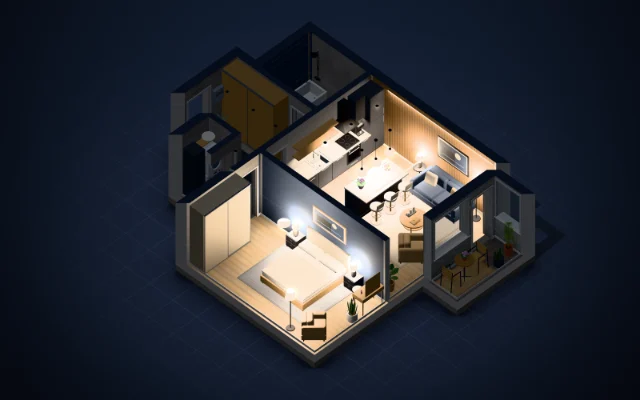
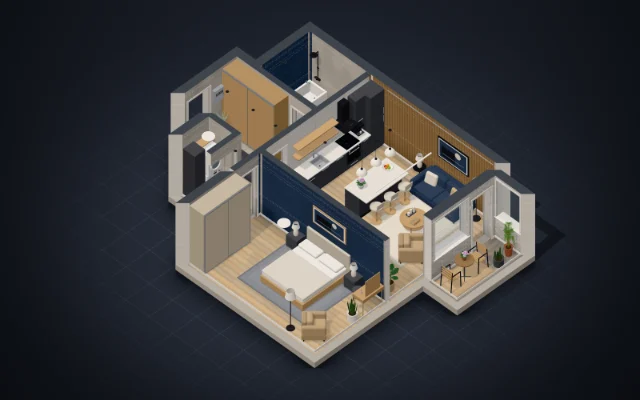
A mix of light: homes under 60 m² are shown by day with the lamps off, the larger ones in the evening; the examples' renders follow (D-116)

Changed region(s): [[0.25, 0.06, 0.8438, 0.93]]

diff --git a/editor/src/editor/app.ts b/editor/src/editor/app.ts
@@ -45,7 +45,8 @@ import {createCoach} from './coach.ts';
 import {createViewDemo} from './view-demo.ts';
 import {createLook} from './look.ts';
 import {SHOWCASE} from './showcase.ts';
-import {eveningRooms} from '../core/evening.ts';
+import {eveningRooms, shownByDay} from '../core/evening.ts';
+import {homeFacts} from './gallery.ts';
 import {NOT_ADMIN_CSS} from '../look/roles.ts';
 import {liveScene} from '../core/devices.ts';
 import {planWalls, planFurniture, planSpots} from '../core/plan-scene.ts';
@@ -2661,16 +2662,18 @@ export function createApp({haLights, ha, photos}: AppOptions): Editor {
     if (!SHOWCASE) saveMode(dayMode);
     showNight(true);
   };
-  // The evening a home is shown in (D-116): night for now (not kept), and only the lamps of a couple of rooms on. In the demo a
-  // lamp's state is the plan's (ha.ts), so the home panel and the 3D see the same.
-  ed.showEvening = () => {
-    const lit = eveningRooms(ed.plan.rooms, ed.plan.lights);
+  // The light a home is shown in (D-116): a small home by day with every lamp off, a larger one in the evening — night (not kept)
+  // and only the lamps of a couple of rooms on. In the demo a lamp's state is the plan's (ha.ts), so the home panel and the 3D see
+  // the same.
+  ed.showcaseLight = () => {
+    const byDay = shownByDay(homeFacts(ed.plan.rooms).area);
+    const lit = byDay ? new Set<string>() : eveningRooms(ed.plan.rooms, ed.plan.lights);
     for (const lamp of ed.plan.lights) {
       const on = !!lamp.room && lit.has(lamp.room);
       lamp.on = on;
       ed.view.setLightOn(lamp.id, on);
     }
-    dayMode = 'night';
+    dayMode = byDay ? 'day' : 'night';
     showNight(true);
     if (look) lookUI.refresh();
   };

diff --git a/editor/tools/render-examples.ts b/editor/tools/render-examples.ts
@@ -3,8 +3,8 @@
 //   node tools/render-examples.ts [--only loft,studio]
 //   node tools/render-examples.ts --gallery <dir>   (a published gallery's homes: <dir>/index.json, each <id>.webp rewritten)
 // It builds the editor with the typical demo, opens each example in headless Chrome, shows the home alone in 3D from its home
-// view (the same camera and framing as the AI build's editor-3d.png, so the AI-built homes' renders match these) in the evening
-// a home is shown in (D-116: night, a couple of rooms lit, core/evening.ts) and takes a screenshot, made small in the page
+// view (the same camera and framing as the AI build's editor-3d.png, so the AI-built homes' renders match these) in the light
+// a home is shown in (D-116, core/evening.ts: a small home by day, the others at night with a couple of rooms lit) and takes a screenshot, made small in the page
 // itself (no image library needed). A gallery's homes open from a local server that gives the folder at /gallery/, as the
 // editor's own server does. Chrome: CHROME_PATH, or the usual macOS place.
 import fs from 'node:fs';
@@ -217,7 +217,7 @@ async function renderHome(devTools: DevTools, address: string): Promise<Buffer> 
         const ed = window.editor?.ed;
         if (!ed?.setBare) return false;
         ed.setBare('3d');
-        ed.showEvening();
+        ed.showcaseLight();
         ed.view.home();
         return true;
       })()`,

diff --git a/editor/src/core/evening.ts b/editor/src/core/evening.ts
@@ -3,6 +3,8 @@
 // the main room people spend the evening in (the largest living room, kitchen or dining room) and the largest bedroom; where
 // one of them is missing, the next largest room lived in, so two rooms are lit where two have lamps. Every other lamp is off.
 // An AI-built home has only the lamps its video showed, often none in the living room: the rule picks among those it has.
+// Not every home is shown so (the owner: a mix reads better than a page of night scenes): a small home is shown by day with
+// every lamp off (shownByDay), the larger ones in the evening.
 import {area} from './geometry.ts';
 import {roomKind} from './overview.ts';
 import type {Room, RoomKind} from './types.ts';
@@ -17,6 +19,11 @@ const roomArea = (room: Room): number => Math.abs(area(room.polygon));
 
 // How many rooms are lit.
 const LIT_ROOMS = 2;
+// A home smaller than this (m² indoors, as its card says) is shown by day: a studio, a one- or a small two-room flat.
+export const DAYLIGHT_MAX_AREA = 60;
+
+/** A home of this indoor area (m²) is shown by day, every lamp off; a larger one in the evening. */
+export const shownByDay = (indoorArea: number): boolean => indoorArea < DAYLIGHT_MAX_AREA;
 
 /** The largest of the rooms whose kind is one of these, not taken already; none: null. */
 function largestOf(rooms: Room[], kinds: readonly RoomKind[], taken: Set<string>): Room | null {

diff --git a/editor/src/editor/flows.ts b/editor/src/editor/flows.ts
@@ -303,9 +303,9 @@ export function createFlows(
       ed.update();
     } // the example in the address is the plan already open (a reload): it stays as it is
     $('start').hidden = true;
-    // the showcase is Preview only, in the evening (D-116)
+    // the showcase is Preview only, each home in its light (D-116)
     setPage(SHOWCASE ? 'preview' : r.page);
-    if (SHOWCASE) ed.showEvening();
+    if (SHOWCASE) ed.showcaseLight();
     coverDown();
   }
   // an address from outside: once its page is open, the address is written as it is now (a wrong one is cleaned, a refused mode corrected)
@@ -590,8 +590,8 @@ export function createFlows(
       ed.mode.refresh?.();
       ed.fit();
       setPage(page);
-      // the showcase presents every home in the evening (D-116)
-      if (SHOWCASE) ed.showEvening();
+      // the showcase presents every home in its light (D-116)
+      if (SHOWCASE) ed.showcaseLight();
       // a home is most often opened “just to look” — say right away that your own plan is safe
       // shown in “Preview” too: the home opens in it
       if (kept && !SHOWCASE)

diff --git a/editor/src/editor/showcase.ts b/editor/src/editor/showcase.ts
@@ -1,5 +1,5 @@
-// The showcase (D-116): the editor opened with ?show, as another site embeds a home to present it (sync.md). Only Preview, in
-// the evening light (core/evening.ts): no editor tools and modes, no file menu, and nothing in the home panel that changes the
+// The showcase (D-116): the editor opened with ?show, as another site embeds a home to present it (sync.md). Only Preview, each
+// home in its light (core/evening.ts: by day or in the evening): no editor tools and modes, no file menu, and nothing in the home panel that changes the
 // plan (the settings a dashboard user who is not an administrator does not get either, look/roles.ts). The viewer still turns
 // the home, opens rooms, switches lights and scenes and steps day / night: what a home shows, not how it is set up.
 

diff --git a/editor/src/core/evening.test.ts b/editor/src/core/evening.test.ts
@@ -43,3 +43,11 @@ test('no lamps, no rooms lit; a bathroom or a hallway alone is never chosen', ()
   assert.equal(eveningRooms(rooms, []).size, 0);
   assert.equal(eveningRooms(rooms, [{room: 'hall'}, {room: 'bath'}]).size, 0);
 });
+
+test('a small home is shown by day, a larger one in the evening', async () => {
+  const {shownByDay, DAYLIGHT_MAX_AREA} = await import('./evening.ts');
+  assert.equal(shownByDay(30), true, 'a studio');
+  assert.equal(shownByDay(DAYLIGHT_MAX_AREA - 1), true);
+  assert.equal(shownByDay(DAYLIGHT_MAX_AREA), false);
+  assert.equal(shownByDay(117), false, 'the loft');
+});

diff --git a/editor/src/editor/editor-types.ts b/editor/src/editor/editor-types.ts
@@ -547,8 +547,8 @@ export interface Editor {
   dayMode(): DayNightMode;
   /** Steps auto → day → night. */
   toggleNight(): void;
-  /** The evening a home is shown in (D-116): night, and only a couple of rooms lit (core/evening.ts). */
-  showEvening(): void;
+  /** The light a home is shown in (D-116): a small one by day, lamps off; a larger one at night with a couple of rooms lit. */
+  showcaseLight(): void;
   reducedMotion(): boolean;
   /** Preview (D-047): 3D full screen with the home panel. */
   look(): boolean;

diff --git a/docs/decisions.md b/docs/decisions.md
@@ -23,7 +23,7 @@ New decisions are appended at the top of their section, old ones are not rewritt
 - **The examples as a list:** the build writes `dist/showcase/examples.json` and each example's render `<id>-<content hash>.webp` beside the page (a new render is a new address: Cloudflare keeps pictures for hours; the gallery's pictures are named so too): the name and the note in every language the editor has, the area and the rooms as the gallery's cards count them, the kind, and the address that opens the home. Only the typical homes and the designer interiors (demo/homes.ts), never the build's own demo home, which may be the owner's. The names and groups moved from `flows.ts` to `example-info.ts`, which has no DOM, so the build can read them. The server serves the folder at `/showcase/`.
 - **In Home Assistant** the panel has no examples (D-062), so the start screen says "See example homes", a link that opens the gallery online (twin.sync.md) in a new tab; in the companion app that is the phone's browser.
 - **The showcase (`?show`, the owner after seeing it embedded):** the company's site only presents how a home can look, so nothing there sets anything up. With `?show` the editor is Preview only (`showcase.ts`): no file menu, modes, tools or way back to the start screen; the home panel hides what changes the plan, the same buttons a dashboard user who is not an administrator does not get (`look/roles.ts`); no "your plan is saved" banner; an address with no home opens the gallery. The viewer still turns the home, opens rooms, switches lights and scenes and steps day / night (not kept).
-- **The evening (the owner: night with a few lamps on is where a home looks best, for every picture and model):** `core/evening.ts` picks, among the rooms that have a lamp, the main room (the largest living room, kitchen or dining room) and the largest bedroom, else the next largest room lived in: two rooms lit, every other lamp off, night. The showcase opens every home so (`ed.showEvening`), and `tools/render-examples.ts` renders the examples' cards so; with `--gallery <dir>` it renders a published gallery's homes the same way. An AI-built home has only the lamps its video showed, mostly table lamps, so its evening is dimmer than an example's.
+- **The light (the owner: night with a few lamps on is where a home looks best; then: mix it, the smallest homes by day):** a home under 60 m² indoors (as its card counts it) is shown by day with every lamp off — the studio, the one-room and small two-room flats, the townhouse's ground floor, three small AI-built flats; the larger ones in the evening: `core/evening.ts` picks, among the rooms that have a lamp, the main room (the largest living room, kitchen or dining room) and the largest bedroom, else the next largest room lived in: two rooms lit, every other lamp off, night. The showcase opens every home in its light (`ed.showcaseLight`), and `tools/render-examples.ts` renders the examples' cards so; with `--gallery <dir>` it renders a published gallery's homes the same way. An AI-built home has only the lamps its video showed, mostly table lamps, so its evening is dimmer than an example's.
 - Open: the gallery's own path (twin.sync.md/gallery) instead of the hash.
 
 ### D-115. The 3D view's GPU budget: dark lights skip their shading, the shadow map only after a change, a lower resolution only while a slow GPU moves the camera — **accepted** (2026-11-15)
